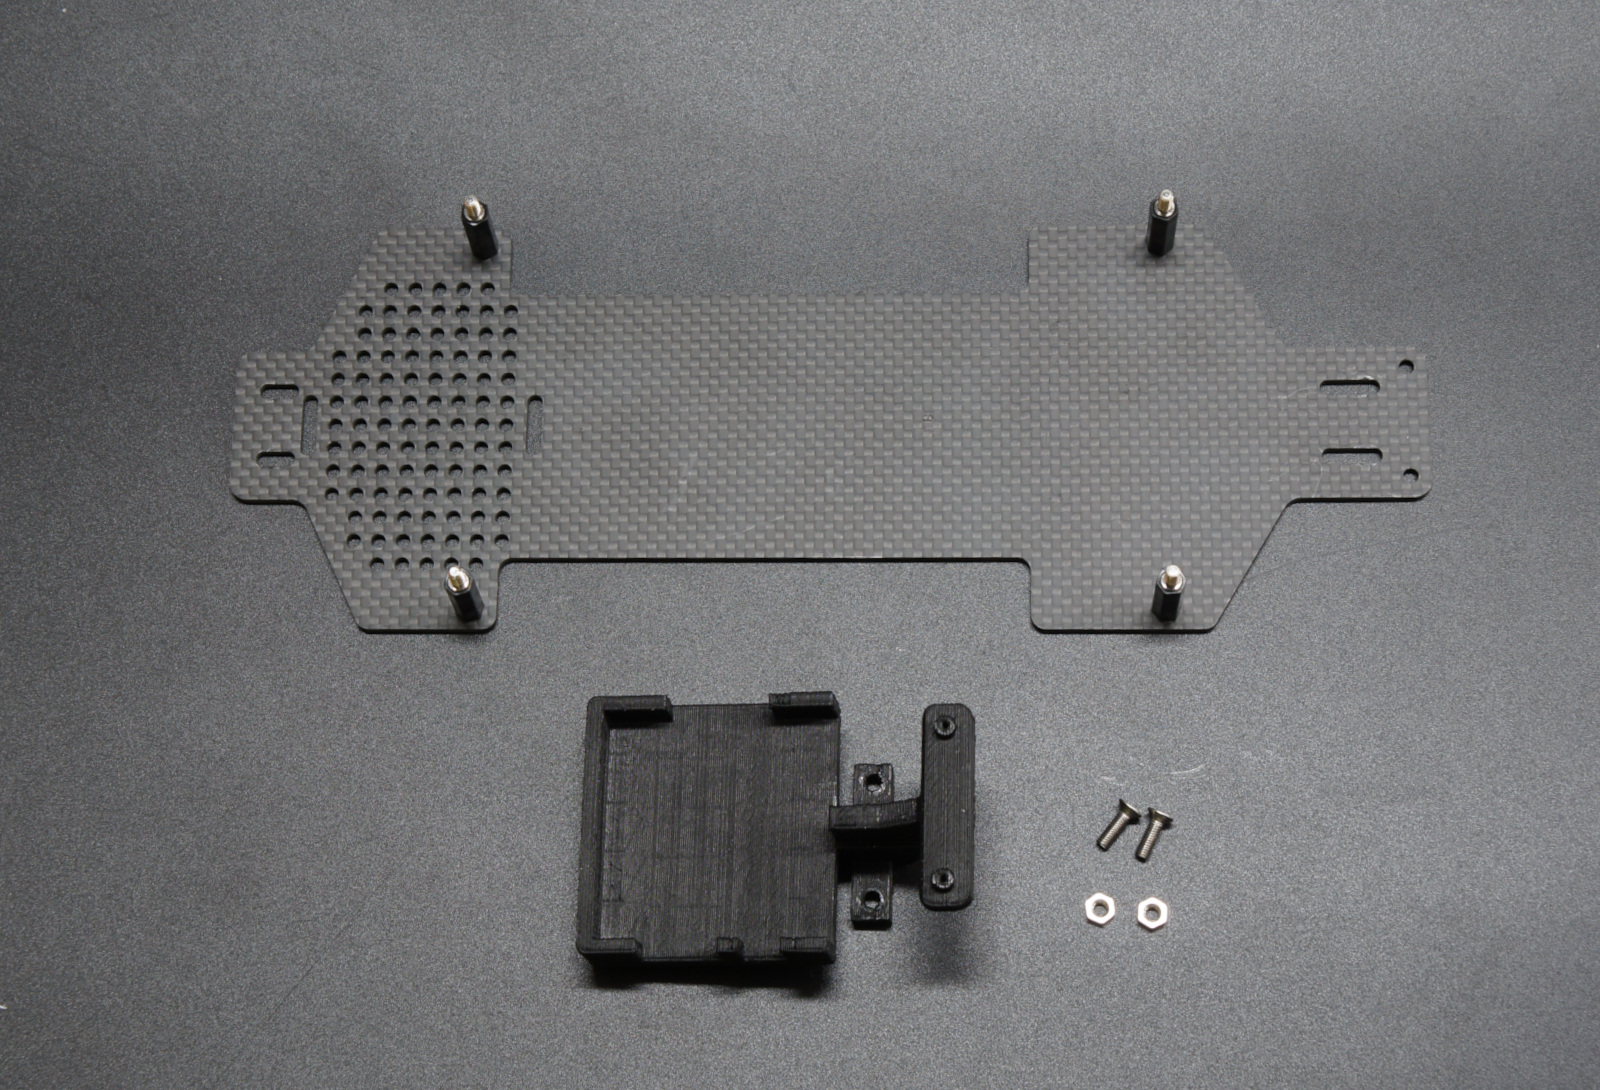
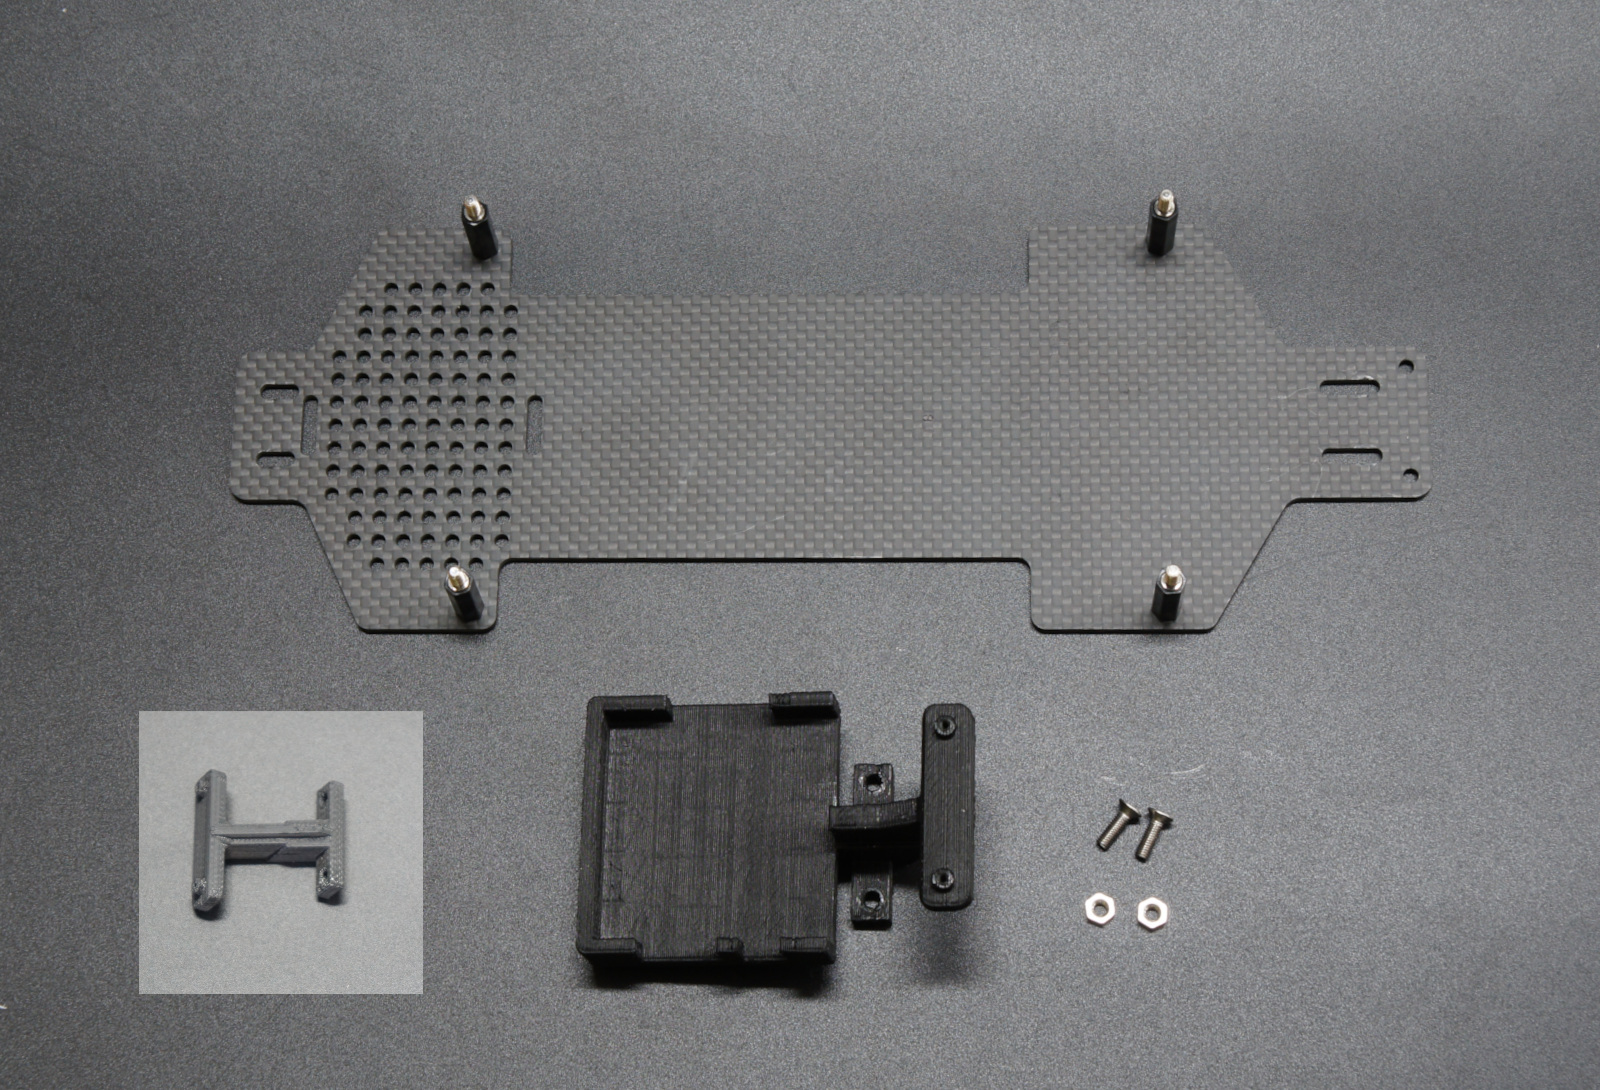
Deployed cc1f8c7 with MkDocs version: 1.3.1

Changed region(s): [[0.0625, 0.655, 0.2812, 0.9358]]

diff --git a/01.組み立て/carbon_edition/JR1_S_C_D/08.build_Carbon_D/index.html b/01.組み立て/carbon_edition/JR1_S_C_D/08.build_Carbon_D/index.html
@@ -1301,7 +1301,7 @@
 <p><img alt="" src="../../../img/img_carbon/D/DSC06378.JPG" /></p>
 <p>樹脂六角スペーサーで4か所締めます。</p>
 <p><img alt="" src="../../../img/img_carbon/D/DSC06381.JPG" /></p>
-<p>LEDマウントを用意します。</p>
+<p>LEDマウントを用意します。※出荷時期よりLEDマウントの形状が異なります。</p>
 <p><img alt="" src="../../../img/img_carbon/D/DSC06382.JPG" /></p>
 <p>M3×１０ねじを左右2か所通します。</p>
 <p><img alt="" src="../../../img/img_carbon/D/DSC06384.JPG" /></p>
